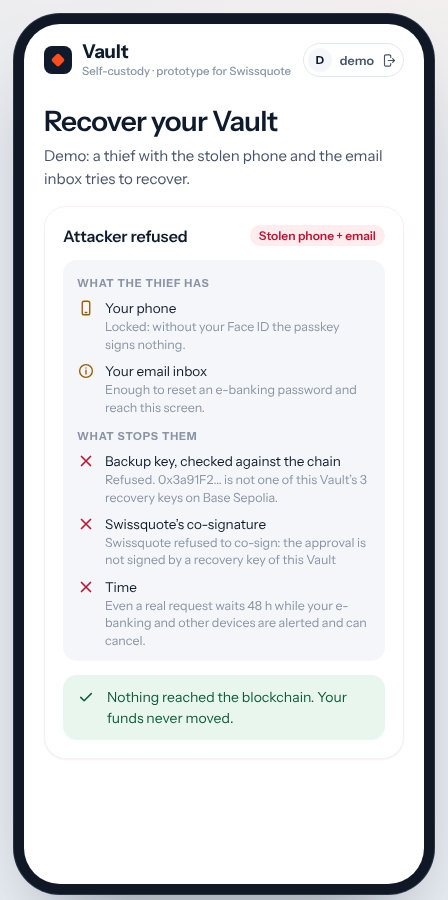
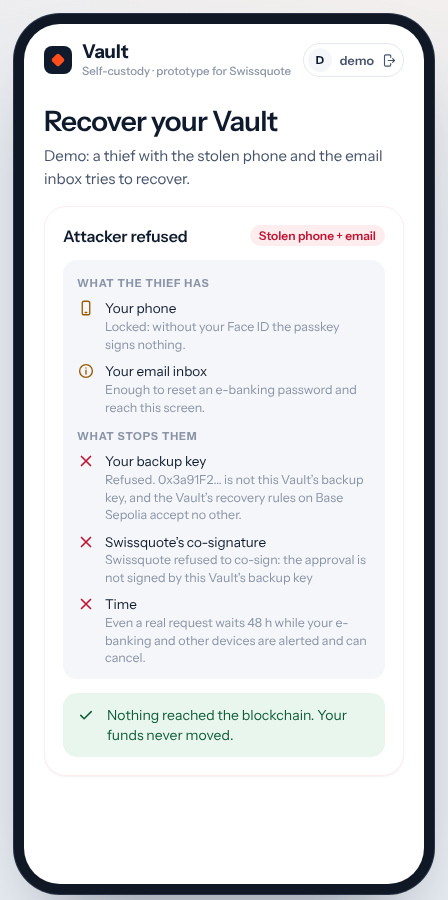
Preview and README screenshot: attacker card shows the app's real messages
Claude-Session: https://claude.ai/code/session_013BkfJFCQ49aivL3knNVtxx

Changed region(s): [[0.1875, 0.4978, 0.8125, 0.84]]

diff --git a/app/src/preview.tsx b/app/src/preview.tsx
@@ -142,8 +142,8 @@ export function Preview() {
           <p>Demo: a thief with the stolen phone and the email inbox tries to recover.</p>
         </div>
         <AttackerRefused
-          chain="Refused. 0x3a91F2… is not one of this Vault’s 3 recovery keys on Base Sepolia."
-          bank="Swissquote refused to co-sign: the approval is not signed by a recovery key of this Vault"
+          chain="Refused. 0x3a91F2… is not this Vault’s backup key, and the Vault’s recovery rules on Base Sepolia accept no other."
+          bank="Swissquote refused to co-sign: the approval is not signed by this Vault's backup key"
         />
       </div>
     ),
